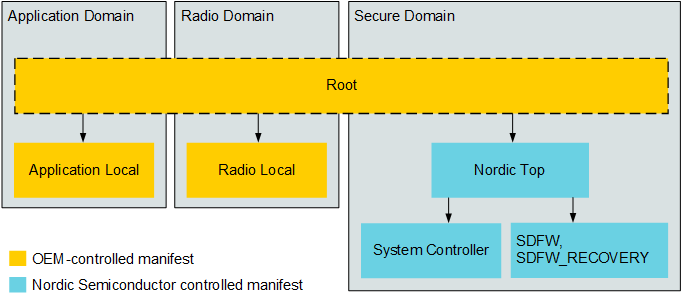
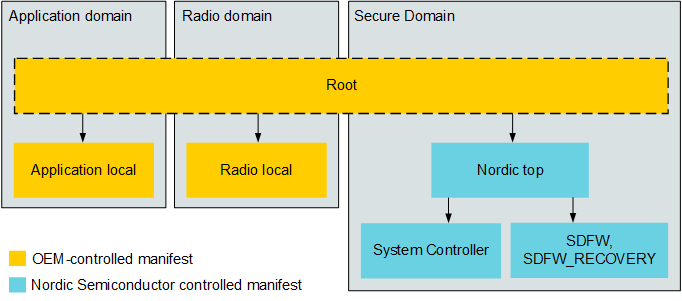
doc: suit updates
Remove orphan tag for SUIT docs
Update terms and location

diff --git a/doc/nrf/device_guides/working_with_nrf/nrf54h/ug_nrf54h20_suit_customize_dfu.rst b/doc/nrf/device_guides/working_with_nrf/nrf54h/ug_nrf54h20_suit_customize_dfu.rst
@@ -1,5 +1,3 @@
-:orphan:
-
 .. _ug_nrf54h20_suit_customize_dfu:
 
 How to customize the SUIT DFU process
@@ -70,13 +68,13 @@ For information about adding custom UUID values, refer to the :ref:`ug_suit_usin
 After the first build of the ``nrf54h_suit_sample``, three additional files are created in the :file:`nrf/samples/suit/smp_transfer` directory (or two levels above the build directory when using the ``west -d`` parameter):
 
 * Root manifest - :file:`root_hierarchical_envelope.yaml.jinja2`
-* Application Domain manifest - :file:`app_envelope.yaml.jinja2`
-* Radio Domain manifest - :file:`rad_envelope.yaml.jinja2`
+* Application domain manifest - :file:`app_envelope.yaml.jinja2`
+* Radio domain manifest - :file:`rad_envelope.yaml.jinja2`
 
 The destination directory for these :file:`jinja2` file templates can be changed by setting the :kconfig:option:`SB_CONFIG_SUIT_ENVELOPE_EDITABLE_TEMPLATES_LOCATION` Kconfig option.
 
 .. note::
-   The Radio Domain manifest template is available only for the Bluetooth® Low Energy version of the ``nrf54h_suit_sample``, not the UART version.
+   The radio domain manifest template is available only for the Bluetooth® Low Energy version of the ``nrf54h_suit_sample``, not the UART version.
 
 .. _ug_suit_change_manifest_location:
 
@@ -140,9 +138,9 @@ The following files should be used to create DFU envelope:
 
 * Root envelope - :file:`root.yaml.jinja2`
 
-* Application Domain - :file:`app.yaml.jinja2`
+* Application domain - :file:`app.yaml.jinja2`
 
-* Radio Domain - :file:`radio.yaml.jinja2`
+* Radio domain - :file:`radio.yaml.jinja2`
 
 .. figure:: images/nrf54h20_suit_example_update_process.png
    :alt: Example update process
@@ -197,7 +195,7 @@ The component values are filled out automatically by the build system during the
 Variables in the provided templates, like memory ranges and paths to binaries, are filled out by the build system.
 However, values like ``class-identifier`` and ``vendor-identifier`` should be customized manually.
 
-An example of a YAML representation for a basic installation and invoke-process of the Application firmware could look like the following:
+An example of a YAML representation for a basic installation and invoke-process of the application firmware could look like the following:
 
 .. code-block::
 
@@ -247,7 +245,7 @@ An example of a YAML representation for a basic installation and invoke-process 
         '#app': ``/path/to/application_fw.bin``
 
 .. note::
-    Default values of OEM-controlled manifests (related to the Application and Radio Domains) are hardcoded in the SDFW, but you can overwrite these values and this is strongly recommended.
+    Default values of OEM-controlled manifests (related to the application and radio domains) are hardcoded in the SDFW, but you can overwrite these values and this is strongly recommended.
 
 The ``class-identifier`` and ``vendor-identifier`` values in the manifest templates, like :file:`app_envelope_yam.jinja2`, can be modified to suit specific requirements.
 For example, changing these values from `nordicsemi.com` to a custom vendor or class identifier enhances the specificity and security of the DFU process.
@@ -375,7 +373,7 @@ For more information, see the file available in the sample and `Jinja <https://j
 
    {%- set component_index = 0 %}                                                  # Initialize the `component_index variable`.
                                                                                    # This variable will be used to assign component indexes dynamically depending on
-                                                                                   # how many cores have been built.
+                                                                                   # How many cores have been built.
 
 
    {%- set component_list = [] %}                                                  # Initialize the `component_list variable`.
@@ -393,7 +391,7 @@ For more information, see the file available in the sample and `Jinja <https://j
             suit-components:
             - - CAND_MFST
             - 0
-   {%- if hci_rpmsg_subimage is defined %}                                         # Add section below only, in case the Radio Core has been already been built.
+   {%- if hci_rpmsg_subimage is defined %}                                         # Add section below only, in case the radio core has been already been built.
       {%- set component_index = component_index + 1 %}                             # Increment `component_index`.
       {%- set hci_rpmsg_subimage_component_index = component_index %}              # Store the current component index for further use.
       {{- component_list.append( hci_rpmsg_subimage_component_index ) or ""}}      # Append the current component index to the common list.

diff --git a/doc/nrf/device_guides/working_with_nrf/nrf54h/ug_nrf54h20_suit_external_memory.rst b/doc/nrf/device_guides/working_with_nrf/nrf54h/ug_nrf54h20_suit_external_memory.rst
@@ -1,5 +1,3 @@
-:orphan:
-
 .. _ug_nrf54h20_suit_external_memory:
 
 Firmware upgrade with external memory
@@ -9,8 +7,9 @@ Firmware upgrade with external memory
    :local:
    :depth: 2
 
-Storing firmware upgrade data in external memory poses a unique challenge on nRF54H20 DK, because the secure domain is unable to access the external memory by itself.
-The application domain is used as a proxy for the secure domain to access the external memory.
+The Secure Domain firmware is unable to access the external memory by itself.
+However, the application domain can implement an IPC service, which allows the Secure Domain firmware to access the external memory with application domain serving as a proxy.
+This guide explains how to prepare the application domain firmware and the SUIT envelope to perform SUIT firmware upgrade with external memory.
 
 .. note::
    The prerequisite to this guide is the :ref:`ug_nrf54h20_suit_fetch` user guide, as this guide assumes that the application uses the fetch model to obtain the candidate images.
@@ -18,10 +17,10 @@ The application domain is used as a proxy for the secure domain to access the ex
 
 The following terms are used in this guide:
 
-* External memory (extmem) service - IPC service allowing the secure domain to use the application domain as a proxy when accessing external memory.
+* External memory (extmem) service - IPC service allowing the Secure Domain to use the application domain as a proxy when accessing external memory.
 
 * Companion image - Application domain firmware implementing the extmem service and external memory driver.
-  The IPC service allows the secure domain to access the external memory.
+  The IPC service allows the Secure Domain to access the external memory.
 
 Overview of external memory in SUIT firmware updates
 ****************************************************
@@ -33,17 +32,17 @@ To store payloads in the external memory, a DFU cache partition must be defined 
 In the SUIT manifest, you can define a component representing the cache partition in the external memory.
 Within the ``suit-payload-fetch`` sequence, you can then store any fetched payload into any ``CACHE_POOL`` component.
 
-When the secure domain processes the ``suit-install`` sequence, issuing ``suit-directive-fetch`` on any non-integrated payload will instruct the secure domain firmware to search for a given URI in all cache partitions in the system.
-However, when such a cache partition is located in the external memory, the secure domain is unable to access the data.
+When the Secure Domain processes the ``suit-install`` sequence, issuing ``suit-directive-fetch`` on any non-integrated payload will instruct the Secure Domain firmware to search for a given URI in all cache partitions in the system.
+However, when such a cache partition is located in the external memory, the Secure Domain is unable to access the data.
 Before any ``suit-directive-fetch`` directive is issued that accesses a payload stored on the external memory, a companion image that implements an external memory device driver must be booted.
 
 The companion image consists of two main parts:
 
 * Device driver adequate for the external memory device
 
-* IPC service exposed towards the secure domain
+* IPC service exposed towards the Secure Domain
 
-When the companion image is booted and a directive that accesses the data on the external memory is issued, such as the ``suit-directive-fetch`` and ``suit-directive-copy`` directives, the secure domain firmware uses the IPC service provided by the companion image to access the contents of the external memory.
+When the companion image is booted and a directive that accesses the data on the external memory is issued, such as the ``suit-directive-fetch`` and ``suit-directive-copy`` directives, the Secure Domain firmware uses the IPC service provided by the companion image to access the contents of the external memory.
 Beyond the booting of the companion image, the update process does not differ from regular fetch model-based update.
 
 Enabling external flash support in SUIT DFU
@@ -133,7 +132,7 @@ Nordic Semiconductor provides a reference companion image in the :file:`samples/
 Limitations
 ***********
 
-* The secure domain and companion image candidates must always be stored in MRAM.
+* The Secure Domain and companion image candidates must always be stored in MRAM.
   Trying to store those candidates in external memory will result in failure during the installation process.
 
 * The companion image needs a dedicated area in the executable region of the MRAM that is assigned to the application domain.

diff --git a/doc/nrf/device_guides/working_with_nrf/nrf54h/ug_nrf54h20_suit_hierarchical_manifests.rst b/doc/nrf/device_guides/working_with_nrf/nrf54h/ug_nrf54h20_suit_hierarchical_manifests.rst
@@ -1,5 +1,3 @@
-:orphan:
-
 .. _ug_nrf54h20_suit_hierarchical_manifests:
 
 Hierarchical manifests
@@ -19,7 +17,7 @@ Additionally, splitting the system into more than one part (each described by a 
 * Assigning different signing authorities per system parts, (a single part is represented by a single SUIT manifest).
 
 * Assigning different access rights to certain memory locations on the device.
-  (Due to security reasons, the manifest representing the Radio Domain is not be able to install, alter, read-out images or memory locations assigned to the Application Domain.)
+  (Due to security reasons, the manifest representing the radio domain is not be able to install, alter, read-out images or memory locations assigned to the application domain.)
 
 * Possibility to assign different downgrade prevention or signing verification policies per single domain.
 
@@ -43,7 +41,7 @@ The following image shows the default manifest topology for the nRF54H20 SoC:
 
    Default manifest topology for the nRF54H20 SoC
 
-Manifest located in the lowest positions of the hierarchy (such as the Application Local, Radio Local, System Controller, SDFW, and SDFW_Recovery manifests) contain a specific updatable image for a specific core/domain of the device.
+Manifest located in the lowest positions of the hierarchy (such as the application local, radio local, System Controller, SDFW, and SDFW_Recovery manifests) contain a specific updatable image for a specific core/domain of the device.
 The Nordic Top manifest coordinates update and invocation logic for its dependencies (System Controller and SDFW).
 The root manifest bundles all other manifests together and coordinates the entire DFU process.
 
@@ -55,7 +53,7 @@ An example of how this would be implemented includes:
    * A root manifest that coordinates update and invocation processes on its dependency manifests.
      It does not belong to any domain or control any local domain resources.
 
-   * A dependency manifest for each of the domains, such as the Application and Radio Domains.
+   * A dependency manifest for each of the domains, such as the application and radio domains.
 
 * Nordic Semiconductor controlled manifests - for the SecDom, including the System Controller.
   They will be released by Nordic Semiconductor and can be incorporated into the firmware update package prepared by the OEM.

diff --git a/doc/nrf/device_guides/working_with_nrf/nrf54h/ug_nrf54h20_suit_intro.rst b/doc/nrf/device_guides/working_with_nrf/nrf54h/ug_nrf54h20_suit_intro.rst
@@ -1,5 +1,3 @@
-:orphan:
-
 .. _ug_nrf54h20_suit_intro:
 
 Introduction to SUIT
@@ -30,13 +28,13 @@ When it starts execution, it continues the SoC boot sequence according to the ma
 The local domain CPU firmware images are validated and started by the Secure Domain as instructed by the manifest.
 
 Once the invocation process is complete, the SDFW is still active and may serve specific requests from specified domains.
-Therefore, unlike in MCUboot, the Application Core and other cores may use the SDFW services.
+Therefore, unlike in MCUboot, the application core and other cores may use the SDFW services.
 (See the :ref:`ug_nrf54h20_suit_compare_other_dfu` page for more details and further comparison of SUIT with other DFU and bootloader procedures.)
 The bootloader SDFW image provided by Nordic Semiconductor is offered in binary form.
 Along with this, you can compose a final image with your own application image that is signed by your own keys.
 
 .. figure:: images/nrf54h20_suit_example_update_workflow.png
-   :alt: Example of the anticipated workflow for an Application Domain update using SUIT
+   :alt: Example of the anticipated workflow for an application domain update using SUIT
 
 .. _ug_suit_dfu_suit_concepts:
 

diff --git a/doc/nrf/device_guides/working_with_nrf/nrf54h/ug_nrf54h20_suit_compare_other_dfu.rst b/doc/nrf/device_guides/working_with_nrf/nrf54h/ug_nrf54h20_suit_compare_other_dfu.rst
@@ -1,5 +1,3 @@
-:orphan:
-
 .. _ug_nrf54h20_suit_compare_other_dfu:
 
 DFU and bootloader comparison
@@ -10,9 +8,9 @@ It provides a more flexible and tailored DFU experience compared to the MCUboot 
 See the diagram and comparison table below for further comparison.
 
 .. figure:: images/nrf54h20_suit_mcuboot_comparison.png
-   :alt: MCUboot and SUIT architecture comparison
+   :alt: MCUboot and SUIT, and nRF Secure Immutable Bootloader architecture comparison
 
-   MCUboot and SUIT architecture comparison
+   MCUboot, SUIT, and |NSIB| architecture comparison
 
 +--------------------------+-------------------------------------------------------------------------+-------------------------------------------------------------------------------------------------------------------+-------------------------------------------------------------------------------------------+
 | Characteristic           | MCUboot                                                                 | SUIT                                                                                                              | nRF Secure Immutable Bootloader                                                           |

diff --git a/doc/nrf/device_guides/working_with_nrf/nrf54h/ug_nrf54h20_suit_manifest_overview.rst b/doc/nrf/device_guides/working_with_nrf/nrf54h/ug_nrf54h20_suit_manifest_overview.rst
@@ -1,5 +1,3 @@
-:orphan:
-
 .. _ug_nrf54h20_suit_manifest_overview:
 
 SUIT manifest overview
@@ -17,10 +15,10 @@ This includes the following:
 
 * A root manifest that contains the main execution instructions for the DFU within the different Domains.
 
-* Two local manifests, one for the Application Domain, another for the Radio Domain.
+* Two local manifests, one for the application domain, another for the radio domain.
 
 * Manifests for the SecDom, which are controlled by Nordic Semiconductor and cannot be modified.
-  This includes a Nordic "Top" manifest, one specifically for the SecDom firmware (SDFW), and the System Controller.
+  This includes a Nordic "Top" manifest, one specifically for the Secure Domain firmware (SDFW), and the System Controller.
 
 You can read more about manifest topology in the :ref:`ug_nrf54h20_suit_hierarchical_manifests` page.
 

diff --git a/doc/nrf/device_guides/working_with_nrf/nrf54h/ug_nrf54h20_suit_customize_qsg.rst b/doc/nrf/device_guides/working_with_nrf/nrf54h/ug_nrf54h20_suit_customize_qsg.rst
@@ -1,5 +1,3 @@
-:orphan:
-
 .. _ug_nrf54h20_suit_customize_dfu_qsg:
 
 Customize SUIT DFU quick start guide
@@ -51,7 +49,6 @@ If you want to learn more about SUIT DFU topics and terminology mentioned in thi
 * :ref:`ug_nrf54h20_suit_intro` page to learn more about SUIT-specific concepts, and an overview of the SUIT DFU procedure
 * :ref:`ug_nrf54h20_suit_manifest_overview` page for more information on how the SUIT manifest works
 * :ref:`ug_nrf54h20_suit_hierarchical_manifests` to learn more about the structure of the SUIT manifests implemented by Nordic Semiconductor
-* :ref:`ug_nrf54h20_suit_why` to learn why SUIT was selected as the DFU procedure for the nRF54H Series devices
 
 Requirements
 ************

diff --git a/doc/nrf/device_guides/working_with_nrf/nrf54h/ug_nrf54h20_suit_dfu.rst b/doc/nrf/device_guides/working_with_nrf/nrf54h/ug_nrf54h20_suit_dfu.rst
@@ -1,5 +1,3 @@
-:orphan:
-
 .. _ug_nrf54h20_suit_dfu:
 
 Device Firmware Update using SUIT
@@ -22,11 +20,12 @@ You can learn about this in the :ref:`ug_nrf54h20_suit_customize_dfu` page, whic
    :maxdepth: 2
    :caption: Subpages:
 
-   ug_nrf54h20_suit_customize_qsg.rst
-   ug_nrf54h20_suit_customize_dfu.rst
    ug_nrf54h20_suit_intro.rst
    ug_nrf54h20_suit_manifest_overview.rst
+   ug_nrf54h20_suit_customize_qsg.rst
+   ug_nrf54h20_suit_customize_dfu.rst
+   ug_nrf54h20_suit_fetch
+   ug_nrf54h20_suit_external_memory
    ug_nrf54h20_suit_components.rst
    ug_nrf54h20_suit_hierarchical_manifests.rst
-   ug_nrf54h20_suit_why.rst
    ug_nrf54h20_suit_compare_other_dfu.rst

diff --git a/doc/nrf/device_guides/nrf54h.rst b/doc/nrf/device_guides/nrf54h.rst
@@ -28,5 +28,6 @@ Zephyr and the |NCS| provide support and contain board definitions for developin
    working_with_nrf/nrf54h/ug_nrf54h20_gs
    working_with_nrf/nrf54h/ug_nrf54h20_architecture
    working_with_nrf/nrf54h/ug_nrf54h20_configuration
+   working_with_nrf/nrf54h/ug_nrf54h20_suit_dfu
    working_with_nrf/nrf54h/ug_nrf54h20_debugging
    working_with_nrf/nrf54h/ug_nrf54h20_custom_pcb

diff --git a/doc/nrf/device_guides/working_with_nrf/nrf54h/ug_nrf54h20_suit_fetch.rst b/doc/nrf/device_guides/working_with_nrf/nrf54h/ug_nrf54h20_suit_fetch.rst
@@ -1,5 +1,3 @@
-:orphan:
-
 .. _ug_nrf54h20_suit_fetch:
 
 How to fetch payloads

diff --git a/doc/nrf/device_guides/working_with_nrf/nrf54h/ug_nrf54h20_suit_components.rst b/doc/nrf/device_guides/working_with_nrf/nrf54h/ug_nrf54h20_suit_components.rst
@@ -1,5 +1,3 @@
-:orphan:
-
 .. _ug_nrf54h20_suit_components:
 
 SUIT components
